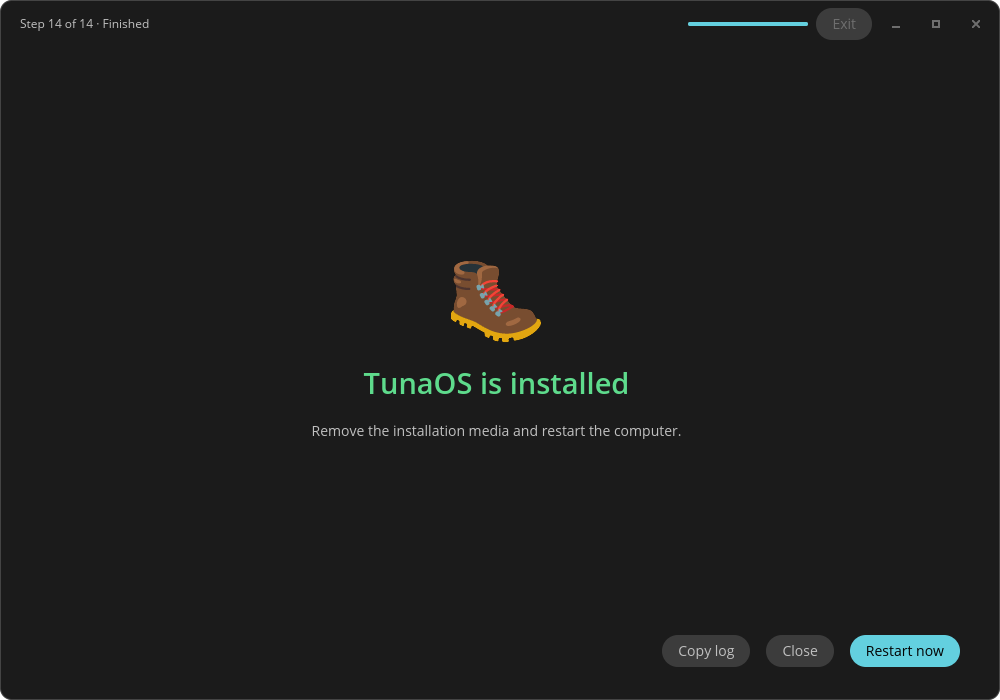
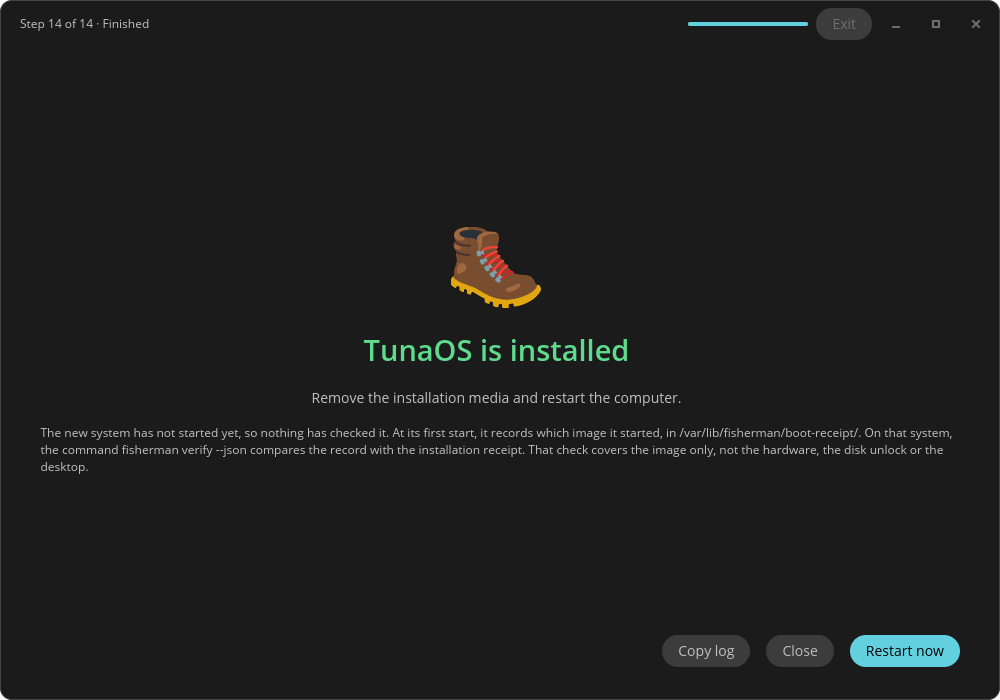
docs: refresh cross-frontend walkthrough [skip ci]

Changed region(s): [[0.031, 0.3, 0.961, 0.69]]

diff --git a/docs/walkthrough/README.md b/docs/walkthrough/README.md
@@ -130,8 +130,8 @@ libcosmic / iced (Rust). Source: `frontends/cosmic/`.
 | <img src="cosmic/13-installing.png" width="360"> | **installing**  <br><sub>Installing TunaOS… fisherman is writing the image to disk. [1/8] Partitioning disk
 [2/8] Formatting EFI partition
 [3/8] Formatting root file</sub> |
-| <img src="cosmic/14-done.png" width="360"> | **done**  <br><sub>TunaOS is installed Remove the installation media and restart the computer. Restart now Copy log Close</sub> |
-| <img src="cosmic/15-recovery.png" width="360"> | **recovery**  <br><sub>TunaOS is installed Remove the installation media and restart the computer. Save your recovery key If your disk fails to unlock automaticall</sub> |
+| <img src="cosmic/14-done.png" width="360"> | **done**  <br><sub>TunaOS is installed Remove the installation media and restart the computer. The new system has not started yet, so nothing has checked it. A</sub> |
+| <img src="cosmic/15-recovery.png" width="360"> | **recovery**  <br><sub>TunaOS is installed Remove the installation media and restart the computer. The new system has not started yet, so nothing has checked it. A</sub> |
 | <img src="cosmic/16-cancel.png" width="360"> | **cancel**  <br><sub>Stop the installation? The disk is already changed. If you stop now, it has no system that can start. You can run the installer again. Keep </sub> |
 | <img src="cosmic/17-cancelled.png" width="360"> | **cancelled**  <br><sub>Installation cancelled You stopped the installation. The disk has no system that can start. Run the installer again to finish. Copy log Clos</sub> |
 | <img src="cosmic/18-offline.png" width="360"> | **offline**  <br><sub>Network The installer needs the network to fetch images. No internet connection. The installer requires an active internet connection. Netwo</sub> |
